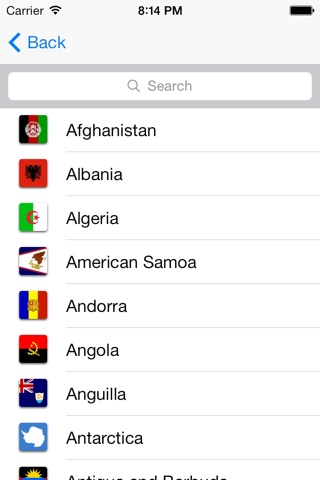
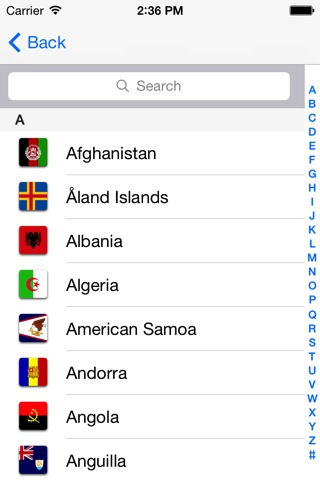
Added indexes.

diff --git a/CountryPicker/SLCountryPickerViewController.m b/CountryPicker/SLCountryPickerViewController.m
@@ -10,8 +10,8 @@ static NSString *CellIdentifier = @"CountryCell";
 @end
 
 @implementation SLCountryPickerViewController{
-    NSArray *countries;
-    NSMutableArray *filteredCountryArray;
+    NSMutableArray *_filteredList;
+    NSArray *_sections;
 }
 
 - (void)createSearchBar {
@@ -32,9 +32,8 @@ static NSString *CellIdentifier = @"CountryCell";
             _searchController.searchResultsDataSource = self;
             _searchController.searchResultsDelegate = self;
             
-            [_searchController setActive:YES animated:YES];
+//            [_searchController setActive:YES animated:YES];
             [theSearchBar becomeFirstResponder];
-
 //            _searchController.displaysSearchBarInNavigationBar = YES;
         }
 }
@@ -47,7 +46,7 @@ static NSString *CellIdentifier = @"CountryCell";
     NSArray *countryCodes = [NSLocale ISOCountryCodes];
     
     NSMutableArray *countriesUnsorted = [[NSMutableArray alloc] initWithCapacity:countryCodes.count];
-    filteredCountryArray = [[NSMutableArray alloc] initWithCapacity:countryCodes.count];
+    _filteredList = [[NSMutableArray alloc] initWithCapacity:countryCodes.count];
     
     for (NSString *countryCode in countryCodes) {
         
@@ -56,11 +55,12 @@ static NSString *CellIdentifier = @"CountryCell";
         [countriesUnsorted addObject:cd];
         
     }
-    NSSortDescriptor *sortDescriptor = [[NSSortDescriptor alloc] initWithKey:@"name" ascending:YES];
-    
-    NSArray *sortDescriptors = @[sortDescriptor];
-    
-    countries = [countriesUnsorted sortedArrayUsingDescriptors:sortDescriptors];
+    _sections = [self partitionObjects:countriesUnsorted collationStringSelector:@selector(self)];
+//    NSSortDescriptor *sortDescriptor = [[NSSortDescriptor alloc] initWithKey:@"name" ascending:YES];
+//    
+//    NSArray *sortDescriptors = @[sortDescriptor];
+//    
+//    countries = [countriesUnsorted sortedArrayUsingDescriptors:sortDescriptors];
 //    [countries sortUsingSelector:@selector(localizedCompare:)];
     [self.tableView reloadData];
     
@@ -77,29 +77,77 @@ static NSString *CellIdentifier = @"CountryCell";
 {
     [[NSNotificationCenter defaultCenter]removeObserver:self name:UIContentSizeCategoryDidChangeNotification object:nil];
 }
-- (void)didReceiveMemoryWarning
-{
-    [super didReceiveMemoryWarning];
-    // Dispose of any resources that can be recreated.
-}
 
 #pragma mark - Table view data source
+-(NSArray *)partitionObjects:(NSArray *)array collationStringSelector:(SEL)selector
+{
+    UILocalizedIndexedCollation *collation = [UILocalizedIndexedCollation currentCollation];
+    NSInteger sectionCount = [[collation sectionTitles] count];
+    NSMutableArray *unsortedSections = [NSMutableArray arrayWithCapacity:sectionCount];
+    
+    for (int i = 0; i < sectionCount; i++) {
+        [unsortedSections addObject:[NSMutableArray array]];
+    }
+    
+    for (id object in array) {
+        NSInteger index = [collation sectionForObject:object[@"name"] collationStringSelector:selector];
+        [[unsortedSections objectAtIndex:index] addObject:object];
+    }
+    
+    NSMutableArray *sections = [NSMutableArray arrayWithCapacity:sectionCount];
+    NSSortDescriptor *sortDescriptor = [[NSSortDescriptor alloc] initWithKey:@"name" ascending:YES selector:@selector(localizedCaseInsensitiveCompare:)];
+    NSArray *sortDescriptors = [NSArray arrayWithObject:sortDescriptor];
+    
+    
+    for (NSMutableArray *section in unsortedSections) {
+        NSArray *sortedArray = [section sortedArrayUsingDescriptors:sortDescriptors];
+//        [collation sortedArrayFromArray:section collationStringSelector:selector]];
+//    collationStringSelector:selector]];
+        [sections addObject:sortedArray];
+    }
+    
+    return sections;
+}
+
+- (NSArray *)sectionIndexTitlesForTableView:(UITableView *)tableView
+{
+    return [UILocalizedIndexedCollation.currentCollation sectionIndexTitles];
+}
 
 - (NSInteger)numberOfSectionsInTableView:(UITableView *)tableView
 {
-    return 1;
-}
-- (NSInteger)tableView:(UITableView *)tableView numberOfRowsInSection:(NSInteger)section
-{
-    // Check to see whether the normal table or search results table is being displayed and return the count from the appropriate array
     if (tableView == self.searchDisplayController.searchResultsTableView)
 	{
-        return filteredCountryArray.count;
+        return 1;
     }
-	else
+    //we use sectionTitles and not sections
+    return [[UILocalizedIndexedCollation.currentCollation sectionTitles] count];
+}
+
+- (NSInteger)tableView:(UITableView *)tableView numberOfRowsInSection:(NSInteger)section
+{
+    if (tableView == self.searchDisplayController.searchResultsTableView)
 	{
-        return countries.count;
+        return [_filteredList count];
     }
+    return [_sections[section] count];
+}
+
+
+- (NSString *)tableView:(UITableView *)tableView titleForHeaderInSection:(NSInteger)section
+{
+    if (tableView == self.searchDisplayController.searchResultsTableView) {
+        return nil;
+    }
+    BOOL showSection = [[_sections objectAtIndex:section] count] != 0;
+    //only show the section title if there are rows in the section
+    return (showSection) ? [[UILocalizedIndexedCollation.currentCollation sectionTitles] objectAtIndex:section] : nil;
+    
+}
+
+- (NSInteger)tableView:(UITableView *)tableView sectionForSectionIndexTitle:(NSString *)title atIndex:(NSInteger)index
+{
+    return [[UILocalizedIndexedCollation currentCollation] sectionForSectionIndexTitleAtIndex:index];
 }
 
 - (UITableViewCell *)tableView:(UITableView *)tableView cellForRowAtIndexPath:(NSIndexPath *)indexPath
@@ -112,7 +160,7 @@ static NSString *CellIdentifier = @"CountryCell";
     
     if (tableView == self.searchDisplayController.searchResultsTableView)
 	{
-        cd = filteredCountryArray[indexPath.row];
+        cd = _filteredList[indexPath.row];
         
         NSMutableAttributedString *attributedTitle = [[NSMutableAttributedString alloc] initWithString:cd[@"name"] attributes:@{NSForegroundColorAttributeName: [UIColor colorWithWhite:0.785 alpha:1.000], NSFontAttributeName:[UIFont preferredFontForTextStyle:UIFontTextStyleBody]}];
         [attributedTitle addAttribute:NSForegroundColorAttributeName
@@ -123,7 +171,8 @@ static NSString *CellIdentifier = @"CountryCell";
     }
 	else
 	{
-        cd = countries[indexPath.row];
+        cd = _sections[indexPath.section][indexPath.row];
+        
         cell.textLabel.text = cd[@"name"];
         cell.textLabel.font = [UIFont preferredFontForTextStyle:UIFontTextStyleBody];
     }
@@ -143,10 +192,10 @@ static NSString *CellIdentifier = @"CountryCell";
         NSDictionary *cd = nil;
         
         if(tableView == self.searchDisplayController.searchResultsTableView) {
-            cd = filteredCountryArray[indexPath.row];
+            cd = _filteredList[indexPath.row];
         }
         else {
-            cd = countries[indexPath.row];
+            cd = _sections[indexPath.section][indexPath.row];
         }
         self.completionBlock(cd[@"name"],cd[@"code"]);
     }
@@ -157,21 +206,23 @@ static NSString *CellIdentifier = @"CountryCell";
 
 - (void)filterContentForSearchText:(NSString*)searchText scope:(NSString*)scope
 {
-	[filteredCountryArray removeAllObjects];
+	[_filteredList removeAllObjects];
     
-	// Filter the array using NSPredicate
-    NSPredicate *predicate = [NSPredicate predicateWithFormat:@"SELF.name BEGINSWITH[c] %@", searchText];
-    NSArray *tempArray = [countries filteredArrayUsingPredicate:predicate];
-    
-    filteredCountryArray = [NSMutableArray arrayWithArray:tempArray];
+    for (NSArray *section in _sections) {
+        for (NSDictionary *dict in section)
+        {
+                NSComparisonResult result = [dict[@"name"] compare:searchText options:(NSCaseInsensitiveSearch|NSDiacriticInsensitiveSearch) range:NSMakeRange(0, [searchText length])];
+                if (result == NSOrderedSame)
+                {
+                    [_filteredList addObject:dict];
+                }
+        }
+    }
 }
-
-
 #pragma mark - UISearchDisplayController Delegate Methods
 
 - (BOOL)searchDisplayController:(UISearchDisplayController *)controller shouldReloadTableForSearchString:(NSString *)searchString
 {
-    // Tells the table data source to reload when text changes
     [self filterContentForSearchText:searchString scope:
      [self.searchDisplayController.searchBar scopeButtonTitles][[self.searchDisplayController.searchBar selectedScopeButtonIndex]]];
     
@@ -181,7 +232,6 @@ static NSString *CellIdentifier = @"CountryCell";
 
 - (BOOL)searchDisplayController:(UISearchDisplayController *)controller shouldReloadTableForSearchScope:(NSInteger)searchOption
 {
-    // Tells the table data source to reload when scope bar selection changes
     [self filterContentForSearchText:[self.searchDisplayController.searchBar text] scope:
      [self.searchDisplayController.searchBar scopeButtonTitles][searchOption]];
     
